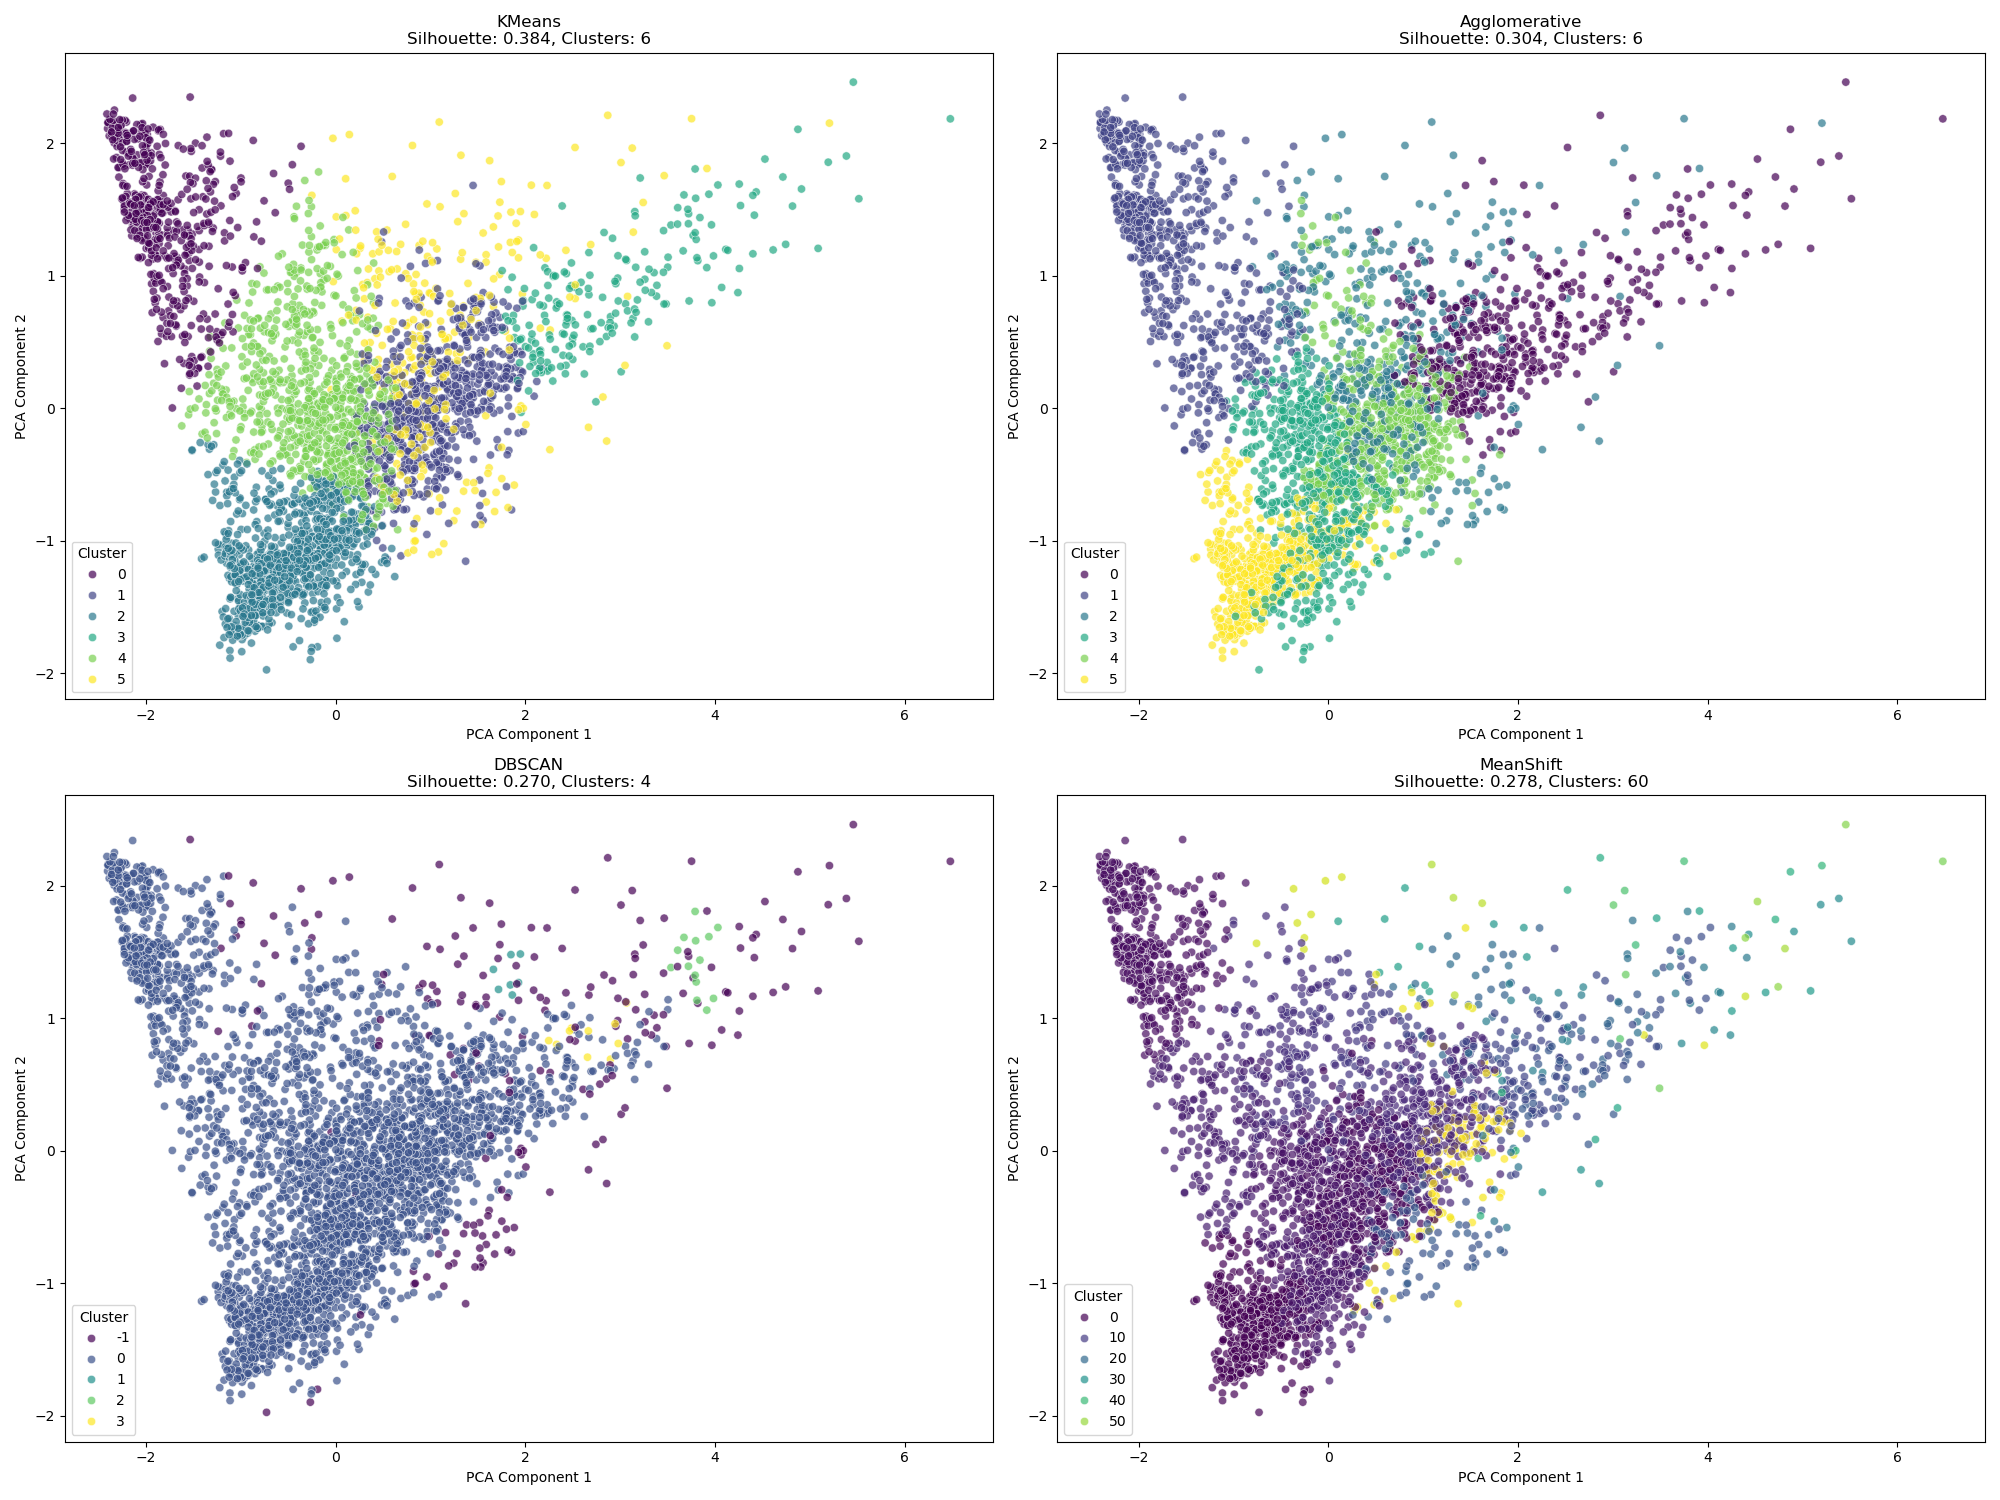
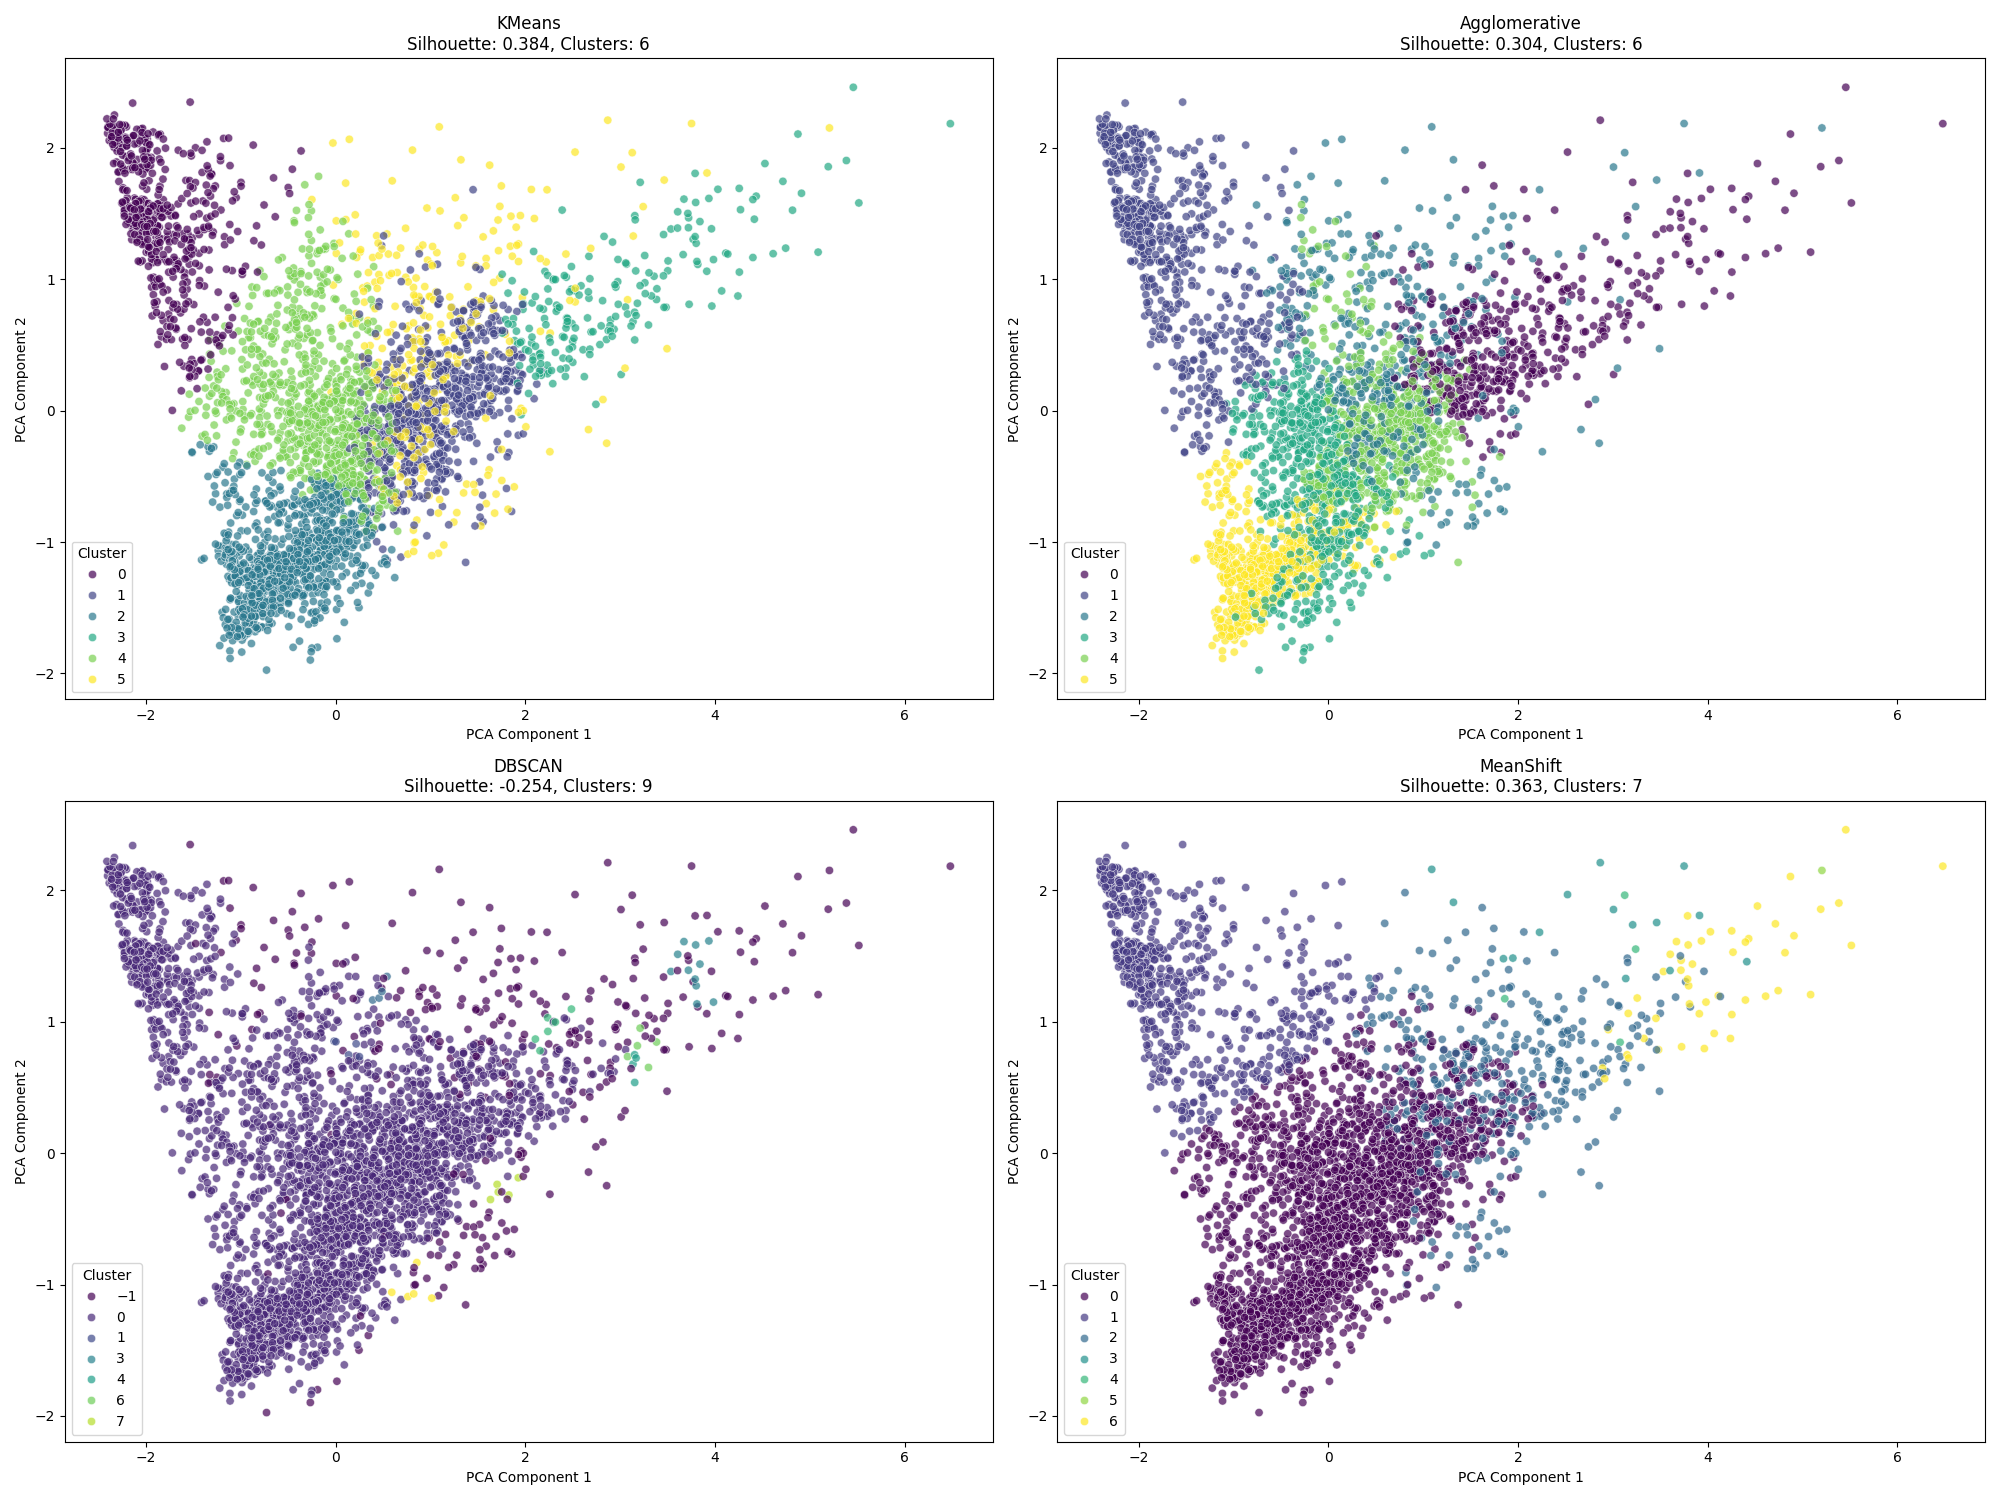
some little things

diff --git a/clustring3.py b/clustring3.py
@@ -27,14 +27,14 @@ def evaluate_clustering(X, labels):
         return silhouette_score(X, labels)
     return -1
 
-k = 6  # Number of clusters for parametric algorithms
+k = 6  # Number of clusters
 
 # Define clustering algorithms
 algorithms = {
     'KMeans': KMeans(n_clusters=k, random_state=42),
     'Agglomerative': AgglomerativeClustering(n_clusters=k),
-    'DBSCAN': DBSCAN(eps=0.3, min_samples=5),
-    'MeanShift': MeanShift(bandwidth=0.5)
+    'DBSCAN': DBSCAN(eps=0.25, min_samples=5),
+    'MeanShift': MeanShift(bandwidth=0.9)
 }
 
 # Run all clustering algorithms
@@ -49,6 +49,10 @@ for name, algorithm in algorithms.items():
         'score': score,
         'n_clusters': n_clusters
     })
+
+#test
+#print result
+# print(results)
 
 # Find best algorithm
 best_result = max(results, key=lambda x: x['score'])
@@ -96,6 +100,12 @@ plt.show()
 # Save results
 df.to_csv("clustered_results.csv", index=False)
 
+best_algorithm_name = best_result['name']
+
+file_name = "best_algorithm.txt"
+with open(file_name, "w") as file:
+    file.write(best_algorithm_name)
+
 # Print summary
 print("\nClustering Algorithm Comparison:")
 print(pd.DataFrame({
@@ -107,8 +117,3 @@ print(pd.DataFrame({
 print(f"\nBest Algorithm: {best_result['name']}")
 print(f"Silhouette Score: {best_result['score']:.3f}")
 print(f"Number of Clusters: {best_result['n_clusters']}")
-print("\nResults saved to:")
-print("- clustered_results.csv")
-print("- all_clustering_results.png")
-print("- best_clustering_result.png")
-print("- cluster_characteristics.png")

diff --git a/prediction.py b/prediction.py
@@ -17,7 +17,14 @@ def main():
         
         #clustered results to get feature order
         clustered_df = pd.read_csv("clustered_results.csv")
-        best_algorithm_name = clustered_df.attrs.get('best_algorithm', 'KMeans')
+        # best_algorithm_name = clustered_df.attrs.get('best_algorithm', 'KMeans')
+        # Read the value from the file
+        with open("best_algorithm.txt", "r") as file:
+            best_algorithm_name = file.read().strip()
+
+        
+        # best_algorithm_name = clustered_df.attrs.get('best_algorithm', {best_algorithm_name})
+
         print(f"Best algorithm from clustering phase: {best_algorithm_name}")
         
         #original training features for scaler fitting
@@ -37,9 +44,9 @@ def main():
     elif best_algorithm_name == 'Agglomerative':
         model = AgglomerativeClustering(n_clusters=6)
     elif best_algorithm_name == 'DBSCAN':
-        model = DBSCAN(eps=0.3, min_samples=5)
+        model = DBSCAN(eps=0.25, min_samples=5)
     elif best_algorithm_name == 'MeanShift':
-        model = MeanShift(bandwidth=0.5)
+        model = MeanShift(bandwidth=1)
     else:
         print(f"Unknown algorithm: {best_algorithm_name}. Using KMeans as fallback.")
         model = KMeans(n_clusters=6, random_state=42)

diff --git a/Feature_selection.py b/Feature_selection.py
@@ -17,7 +17,7 @@ def find_correlation():
     # print (len(data_array))
     # print(len(data_array[0]))
 
-    #save mean of each feature in mean_feature
+    #save mean of each feature
     for i in range(len(data_array[0])-1):
         mean = 0
         for j in range(1 , len(data_array)):
@@ -27,7 +27,7 @@ def find_correlation():
         
         mean_feature.append(mean / (len(data_array)-1))
 
-    
+
     correlation_matrix = np.zeros((len(data_array[0])-1,len(data_array[0])-1))
     for i in range(len(data_array[0])-1):
         for j in range(i+1 , len(data_array[0])-1):
@@ -49,7 +49,7 @@ def find_correlation():
             correlation_matrix[j][i] = correlation_matrix[i][j]
 
 
-        # Save the correlation matrix to a txt file
+    # Save the correlation matrix to a txt file
     with open("correlation_matrix.txt", "w") as file:
         for row in correlation_matrix:
             row_str = "\t".join(map(str, row)) 
